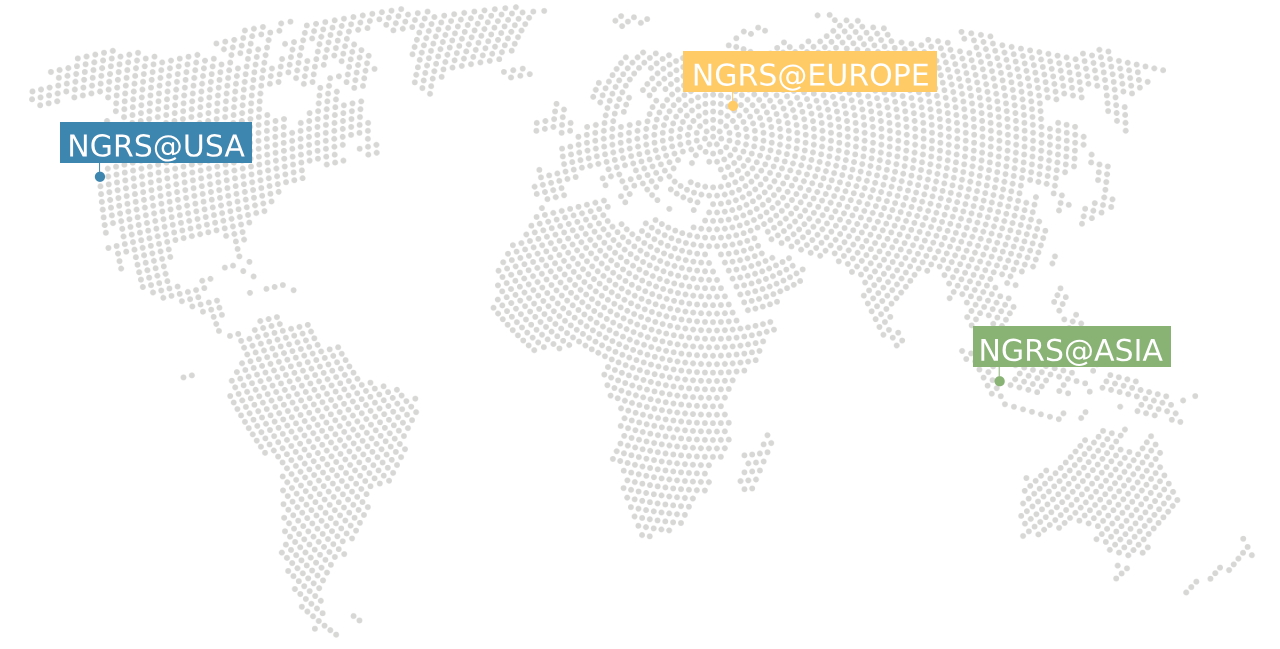
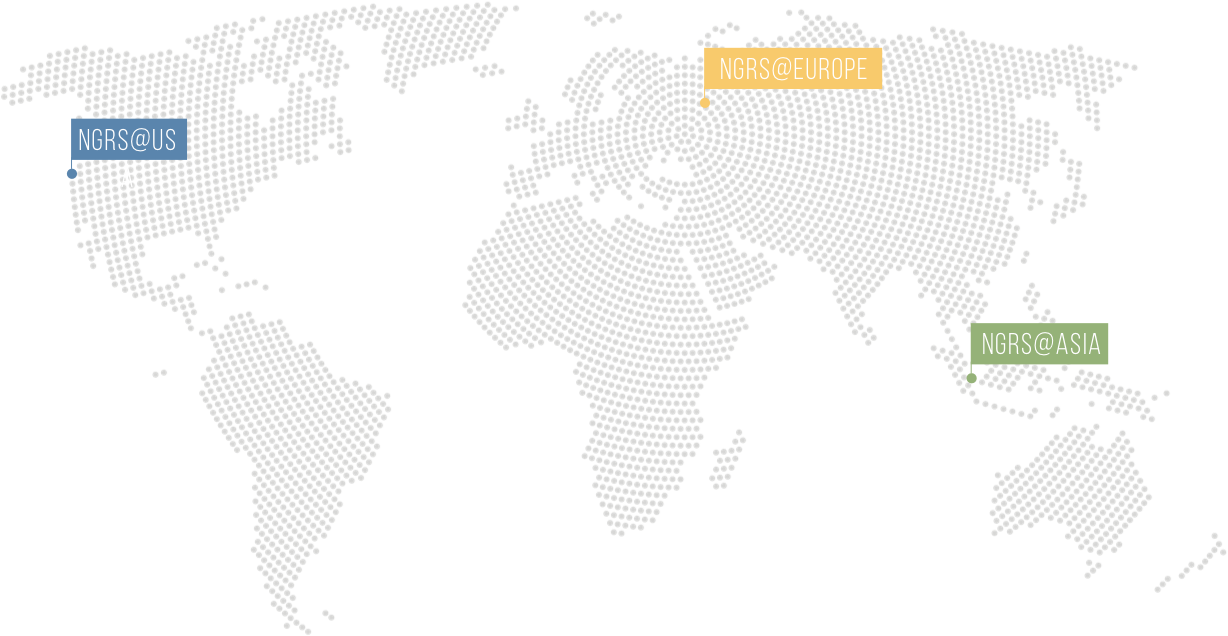
Исправлена картинка карты, добавлена анимация фона с точками.

diff --git a/css/main.min-86f89e81.css b/css/main.min-86f89e81.css
@@ -1,0 +1,1 @@
+@charset "UTF-8";a,abbr,acronym,address,applet,article,aside,audio,b,big,blockquote,body,canvas,caption,center,cite,code,dd,del,details,dfn,div,dl,dt,em,embed,fieldset,figcaption,figure,footer,form,h1,h2,h3,h4,h5,h6,header,hgroup,html,i,iframe,img,ins,kbd,label,legend,li,mark,menu,nav,object,ol,output,p,pre,q,ruby,s,samp,section,small,span,strike,strong,sub,summary,sup,table,tbody,td,tfoot,th,thead,time,tr,tt,u,ul,var,video{margin:0;padding:0;border:0;font-size:100%;font:inherit;vertical-align:baseline}article,aside,details,figcaption,figure,footer,header,hgroup,menu,nav,section{display:block}body{line-height:1}ol,ul{list-style:none}blockquote,q{quotes:none}blockquote:after,blockquote:before,q:after,q:before{content:'';content:none}table{border-collapse:collapse;border-spacing:0}textarea{resize:none}a{text-decoration:none}.slick-slider{position:relative;display:block;-webkit-box-sizing:border-box;box-sizing:border-box;-webkit-touch-callout:none;-webkit-user-select:none;-moz-user-select:none;-ms-user-select:none;user-select:none;-ms-touch-action:pan-y;touch-action:pan-y;-webkit-tap-highlight-color:transparent}.slick-list{position:relative;overflow:hidden;display:block;margin:0;padding:0}.slick-list:focus{outline:0}.slick-list.dragging{cursor:pointer;cursor:hand}.slick-slider .slick-list,.slick-slider .slick-track{-webkit-transform:translate3d(0,0,0);transform:translate3d(0,0,0)}.slick-track{position:relative;left:0;top:0;display:block}.slick-track:after,.slick-track:before{content:"";display:table}.slick-track:after{clear:both}.slick-loading .slick-track{visibility:hidden}.slick-slide{float:left;height:100%;min-height:1px;display:none}[dir=rtl] .slick-slide{float:right}.slick-slide img{display:block}.slick-slide.slick-loading img{display:none}.slick-slide.dragging img{pointer-events:none}.slick-initialized .slick-slide{display:block}.slick-loading .slick-slide{visibility:hidden}.slick-vertical .slick-slide{display:block;height:auto;border:1px solid transparent}.slick-arrow.slick-hidden{display:none}.slick-next,.slick-prev{position:absolute;display:block;height:20px;width:20px;line-height:0;font-size:0;cursor:pointer;background:0 0;color:transparent;top:50%;-webkit-transform:translate(0,-50%);transform:translate(0,-50%);padding:0;border:none;outline:0}.slick-next:focus,.slick-next:hover,.slick-prev:focus,.slick-prev:hover{outline:0;background:0 0;color:transparent}.slick-next:focus:before,.slick-next:hover:before,.slick-prev:focus:before,.slick-prev:hover:before{opacity:1}.slick-next.slick-disabled:before,.slick-prev.slick-disabled:before{opacity:.25}.slick-next:before,.slick-prev:before{font-family:slick;font-size:20px;line-height:1;color:#fff;opacity:.75;-webkit-font-smoothing:antialiased;-moz-osx-font-smoothing:grayscale}.slick-prev{left:-25px}[dir=rtl] .slick-prev{left:auto;right:-25px}.slick-prev:before{content:"←"}[dir=rtl] .slick-prev:before{content:"→"}.slick-next{right:-25px}[dir=rtl] .slick-next{left:-25px;right:auto}.slick-next:before{content:"→"}[dir=rtl] .slick-next:before{content:"←"}.slick-dotted.slick-slider{margin-bottom:30px}.slick-dots{position:absolute;bottom:-25px;list-style:none;display:block;text-align:center;padding:0;margin:0;width:100%}.slick-dots li{position:relative;display:inline-block;height:20px;width:20px;margin:0 5px;padding:0;cursor:pointer}.slick-dots li button{border:0;background:0 0;display:block;height:20px;width:20px;outline:0;line-height:0;font-size:0;color:transparent;padding:5px;cursor:pointer}.slick-dots li button:focus,.slick-dots li button:hover{outline:0}.slick-dots li button:focus:before,.slick-dots li button:hover:before{opacity:1}.slick-dots li button:before{position:absolute;top:0;left:0;content:"•";width:20px;height:20px;font-family:slick;font-size:6px;line-height:20px;text-align:center;color:#000;opacity:.25;-webkit-font-smoothing:antialiased;-moz-osx-font-smoothing:grayscale}.slick-dots li.slick-active button:before{color:#000;opacity:.75}@font-face{font-family:Montserrat;src:url(/fonts/Montserrat-SemiBold.ttf) format("truetype");font-style:normal;font-weight:600}@font-face{font-family:PT;src:url(/fonts/PT_Sans-Web-Regular.ttf) format("truetype");font-style:normal;font-weight:400}@font-face{font-family:PT;src:url(/fonts/PT_Sans-Web-Italic.ttf) format("truetype");font-style:italic;font-weight:400}@font-face{font-family:Bebas;src:url(/fonts/BebasNeue_Regular.ttf) format("truetype");font-style:normal;font-weight:400}@font-face{font-family:Bebas;src:url(/fonts/BebasNeue_Light.ttf) format("truetype");font-style:normal;font-weight:300}@font-face{font-family:Bebas;src:url(/fonts/BebasNeue_Bold.ttf) format("truetype");font-style:normal;font-weight:700}.header{display:-webkit-box;display:-ms-flexbox;display:flex;max-width:1400px;margin-left:auto;margin-right:auto;padding-top:50px;margin-bottom:100px}@media (max-width:1600px){.header{max-width:100%;padding-left:100px;padding-right:100px;-webkit-box-pack:justify;-ms-flex-pack:justify;justify-content:space-between}}@media (max-width:1400px){.header{padding-left:50px;padding-right:50px;padding-top:25px}}@media (max-width:600px){.header{margin-bottom:60px}}@media (max-width:480px){.header{padding-left:30px;padding-right:20px}}.header__left-col,.header__right-col{display:-webkit-box;display:-ms-flexbox;display:flex}.header__left-col{width:calc(100% - 350px);-webkit-box-flex:0;-ms-flex:0 0 calc(100% - 350px);flex:0 0 calc(100% - 350px)}@media (max-width:1400px){.header__left-col{width:calc(100% - 250px);-webkit-box-flex:0;-ms-flex:0 0 calc(100% - 250px);flex:0 0 calc(100% - 250px)}}.header__right-col{width:270px;-webkit-box-flex:0;-ms-flex:0 0 270px;flex:0 0 270px;-webkit-box-pack:justify;-ms-flex-pack:justify;justify-content:space-between;-webkit-box-align:start;-ms-flex-align:start;align-items:flex-start;padding-top:28px}@media (max-width:1400px){.header__right-col{width:230px;-webkit-box-flex:0;-ms-flex:0 0 230px;flex:0 0 230px}}@media (max-width:1199px){.header__right-col{-webkit-box-pack:end;-ms-flex-pack:end;justify-content:flex-end}}@media (max-width:480px){.header__right-col{padding-top:0}}.header__logo{width:60px;-webkit-box-flex:0;-ms-flex:0 0 60px;flex:0 0 60px;height:92px;background-image:url(/images/logo-header.svg);background-position:center;background-repeat:no-repeat;background-size:auto;margin-right:60px}@media (max-width:1400px){.header__logo{margin-right:30px}}@media (max-width:480px){.header__logo{width:32px;-webkit-box-flex:0;-ms-flex:0 0 32px;flex:0 0 32px;height:50px;background-size:contain}}.header-menu{margin-top:28px;display:-webkit-box;display:-ms-flexbox;display:flex;-webkit-box-align:start;-ms-flex-align:start;align-items:flex-start}@media (max-width:1199px){.header-menu{display:none}}.header-menu__link{display:block;margin-right:25px;font-family:Montserrat;font-size:14px;line-height:1.28571;font-weight:600;color:#8c8c8c;-webkit-transition:all .3s ease-in-out;transition:all .3s ease-in-out;position:relative}@media (max-width:1400px){.header-menu__link{margin-right:15px}}.header-menu__link:after{content:'';position:absolute;top:auto;left:0;right:auto;bottom:-12px;width:20px;height:2px;background-color:transparent;-webkit-transition:all .3s ease-in-out;transition:all .3s ease-in-out}.header-menu__link:hover{color:#4a4b4c}.header-menu__link:hover:after{background-color:#f8ca6c}.header-menu__link:last{margin-right:0}.header__phone{font-family:Montserrat;font-size:14px;line-height:1.28571;font-weight:600;color:#565656}@media (max-width:1199px){.header__phone{display:none}}@media (max-width:1199px){.header__langs{display:none}}.header__lang-item{font-family:Montserrat;font-size:14px;line-height:1.28571;font-weight:600;color:#8c8c8c;-webkit-transition:all .3s ease-in-out;transition:all .3s ease-in-out;margin-right:10px}.header__lang-item:after{content:'';position:absolute;top:auto;left:50%;right:auto;bottom:-12px;width:20px;height:2px;background-color:transparent;-webkit-transform:translateX(-50%);transform:translateX(-50%);-webkit-transition:all .3s ease-in-out;transition:all .3s ease-in-out}.header__lang-item--active,.header__lang-item:hover{color:#4a4b4c;position:relative}.header__lang-item--active:after,.header__lang-item:hover:after{background-color:#f8ca6c}.header__lang-item:last{margin-right:0}.header__mobile{display:none}@media (max-width:1199px){.header__mobile{display:-webkit-box;display:-ms-flexbox;display:flex}}.header__mobile-phone{display:block;width:11px;height:22px;background-image:url(/images/phone-icon.png);background-position:center;background-repeat:no-repeat;background-size:cover;margin-right:35px}.header__burger{cursor:pointer}.header__burger--opened .header__burger-item{opacity:0}.header__burger--opened .header__burger-item:first-child{-webkit-transform:rotate(45deg) translate(6px,6px);transform:rotate(45deg) translate(6px,6px);opacity:1}.header__burger--opened .header__burger-item:last-child{-webkit-transform:rotate(-45deg) translate(5px,-5px);transform:rotate(-45deg) translate(5px,-5px);opacity:1}.header__burger-item{height:3px;width:25px;background-color:#f8ca6c;margin-bottom:5px;display:block;pointer-events:none;-webkit-transition:all .3s ease-in-out;transition:all .3s ease-in-out}.menu-mobile{display:none}.menu-mobile--active{display:block;position:fixed;top:120px;left:0;background-color:#fff;z-index:3;width:100vw;height:calc(100vh - 120px)}@media (max-width:1400px){.menu-mobile--active{padding-left:50px;padding-right:50px;padding-top:25px}}@media (max-width:600px){.menu-mobile--active{margin-bottom:60px}}@media (max-width:480px){.menu-mobile--active{padding-left:30px;padding-right:20px}}.menu-mobile nav{display:-webkit-box;display:-ms-flexbox;display:flex;-webkit-box-orient:vertical;-webkit-box-direction:normal;-ms-flex-direction:column;flex-direction:column;-webkit-box-align:start;-ms-flex-align:start;align-items:flex-start}.menu-mobile .header-menu__link{margin-bottom:40px}.menu-mobile .header-menu__link:last-child{margin-bottom:0}.menu-mobile .header__langs{display:-webkit-box;display:-ms-flexbox;display:flex;margin-left:10px;margin-top:65px;margin-bottom:40px}.menu-mobile .header__phone{display:inline-block}.footer{position:relative}.footer__logo{position:absolute;top:50%;left:50%;-webkit-transform:translate(-50%,-50%);transform:translate(-50%,-50%);z-index:2}@media (max-width:767px){.footer__logo{width:56px;height:78px}}.video-slider{height:340px;z-index:1}@media (max-width:767px){.video-slider{height:150px}}.video-slider__item{height:340px;overflow:hidden;position:relative}@media (max-width:767px){.video-slider__item{height:150px}}.video-slider__item video{position:absolute;top:0;right:0;width:100%;height:auto}.preloader{width:100vw;height:100vh;background-color:#fff;z-index:5;position:fixed;top:0;left:0;display:-webkit-box;display:-ms-flexbox;display:flex;-webkit-box-pack:center;-ms-flex-pack:center;justify-content:center;-webkit-box-align:center;-ms-flex-align:center;align-items:center}.preloader__wrap{display:-webkit-box;display:-ms-flexbox;display:flex;-webkit-box-orient:vertical;-webkit-box-direction:normal;-ms-flex-direction:column;flex-direction:column;-webkit-box-pack:justify;-ms-flex-pack:justify;justify-content:space-between;-webkit-box-align:center;-ms-flex-align:center;align-items:center}.preloader__square{width:32px;height:32px;background-color:#7297b9;-webkit-animation-name:preloader;animation-name:preloader;-webkit-animation-duration:4s;animation-duration:4s;-webkit-animation-iteration-count:infinite;animation-iteration-count:infinite;-webkit-animation-timing-function:linear;animation-timing-function:linear;-webkit-transform-origin:center;transform-origin:center;-webkit-animation-delay:1s;animation-delay:1s;margin-bottom:15px}.preloader__text{font-family:Montserrat;font-size:14px;line-height:1;font-weight:600}@-webkit-keyframes preloader{0%{-webkit-transform:scale(1);transform:scale(1);background-color:#7297b9}12.5%{-webkit-transform:scale(0);transform:scale(0);background-color:#7fbdc5}25%{-webkit-transform:scale(1);transform:scale(1);background-color:#7fbdc5}37.5%{-webkit-transform:scale(0);transform:scale(0);background-color:#a6c983}50%{-webkit-transform:scale(1);transform:scale(1);background-color:#a6c983}62.5%{-webkit-transform:scale(0);transform:scale(0);background-color:#f9d281}75%{-webkit-transform:scale(1);transform:scale(1);background-color:#f9d281}87.5%{-webkit-transform:scale(0);transform:scale(0);background-color:#7297b9}100%{-webkit-transform:scale(1);transform:scale(1);background-color:#7297b9}}@keyframes preloader{0%{-webkit-transform:scale(1);transform:scale(1);background-color:#7297b9}12.5%{-webkit-transform:scale(0);transform:scale(0);background-color:#7fbdc5}25%{-webkit-transform:scale(1);transform:scale(1);background-color:#7fbdc5}37.5%{-webkit-transform:scale(0);transform:scale(0);background-color:#a6c983}50%{-webkit-transform:scale(1);transform:scale(1);background-color:#a6c983}62.5%{-webkit-transform:scale(0);transform:scale(0);background-color:#f9d281}75%{-webkit-transform:scale(1);transform:scale(1);background-color:#f9d281}87.5%{-webkit-transform:scale(0);transform:scale(0);background-color:#7297b9}100%{-webkit-transform:scale(1);transform:scale(1);background-color:#7297b9}}html:not(.android-device) *{text-rendering:geometricPrecision}*{-webkit-box-sizing:border-box;box-sizing:border-box}footer,header,main{overflow-x:hidden}@media (max-width:991px){br{display:none}}.content:before{content:'';position:absolute;top:0;left:0;right:auto;bottom:auto;background-image:url(/images/bg_wave.png);background-position:center;background-repeat:no-repeat;background-size:contain;width:100%;height:1400px;pointer-events:none}@media (max-width:600px){.content:before{height:1100px}}@media (max-width:480px){.content:before{height:1000px}}.h1{font-family:Bebas;font-size:55px;line-height:1.45455;font-weight:700;letter-spacing:2.75px;text-transform:uppercase;color:#4a4b4c}@media (max-width:991px){.h1{font-size:45px}}@media (max-width:767px){.h1{font-size:40px}}@media (max-width:480px){.h1{font-size:35px}}.h2{font-family:Bebas;font-size:50px;line-height:1;font-weight:700;letter-spacing:2.5px;text-transform:uppercase;color:#4a4b4c;margin-bottom:40px}@media (max-width:991px){.h2{font-size:40px}}@media (max-width:767px){.h2{font-size:35px}}@media (max-width:480px){.h2{font-size:32px}}.paragraph{font-family:PT;font-size:22px;line-height:1.72727;font-weight:400;color:#4a4b4c}@media (max-width:480px){.paragraph{font-size:18px}}.paragraph--italic{font-style:italic}.section{max-width:1400px;margin-left:auto;margin-right:auto}@media (max-width:1600px){.section{max-width:100%;padding-left:100px;padding-right:100px}}@media (max-width:1400px){.section{padding-left:50px;padding-right:50px}}@media (max-width:480px){.section{padding-left:30px;padding-right:20px}}.section--main{margin-bottom:410px}@media (max-width:600px){.section--main{margin-bottom:280px}}@media (max-width:480px){.section--main{margin-bottom:250px}}.section--main:after{content:'';position:absolute;top:0;left:0;right:auto;bottom:auto;background-image:url(/images/lines-top.png);background-position:center;background-repeat:no-repeat;background-size:auto;width:100%;height:745px;pointer-events:none}@media (max-width:600px){.section--main:after{background-size:124%;height:825px}}@media (max-width:480px){.section--main:after{background-size:130%;height:835px}}.section--main .paragraph{margin-top:35px}.section--about{display:-webkit-box;display:-ms-flexbox;display:flex;margin-bottom:180px}@media (max-width:991px){.section--about{-webkit-box-orient:vertical;-webkit-box-direction:normal;-ms-flex-direction:column;flex-direction:column;margin-bottom:75px}}.section--about .section__text{max-width:315px;margin-right:215px}@media (max-width:1400px){.section--about .section__text{margin-right:65px}}@media (max-width:991px){.section--about .section__text{margin-right:0;margin-bottom:70px}}.section--services{display:-webkit-box;display:-ms-flexbox;display:flex}@media (max-width:1199px){.section--services{-webkit-box-orient:vertical;-webkit-box-direction:normal;-ms-flex-direction:column;flex-direction:column}}.section--services .section__text{max-width:175px;margin-right:185px}@media (max-width:1199px){.section--services .section__text{margin-right:0;margin-bottom:20px}}.section--who{display:-webkit-box;display:-ms-flexbox;display:flex;-webkit-box-pack:justify;-ms-flex-pack:justify;justify-content:space-between;padding-bottom:45px}@media (max-width:600px){.section--who{-webkit-box-orient:vertical;-webkit-box-direction:normal;-ms-flex-direction:column;flex-direction:column}}.section--who .section__text{max-width:175px;-webkit-box-flex:0;-ms-flex:0 0 175px;flex:0 0 175px}@media (max-width:600px){.section--who .section__text{-webkit-box-flex:0;-ms-flex:none;flex:none}}.section--who .section__description{margin-top:45px;position:relative;z-index:2}@media (max-width:991px){.section--who .section__description{margin-top:0}.section--who .section__description img{width:100%}}.section--where{display:-webkit-box;display:-ms-flexbox;display:flex;margin-bottom:185px}@media (max-width:991px){.section--where{-webkit-box-orient:vertical;-webkit-box-direction:normal;-ms-flex-direction:column;flex-direction:column}}@media (max-width:767px){.section--where{margin-bottom:80px}}.section--where .h2{margin-bottom:30px}.section--where .section__text{max-width:295px;-webkit-box-flex:0;-ms-flex:0 0 295px;flex:0 0 295px;padding-top:125px}@media (max-width:1199px){.section--where .section__text{padding-top:0}}@media (max-width:991px){.section--where .section__text{-webkit-box-flex:0;-ms-flex:none;flex:none;margin-bottom:40px}}.section--where .section__description{display:-webkit-box;display:-ms-flexbox;display:flex;-webkit-box-align:start;-ms-flex-align:start;align-items:flex-start}.section--where .section__description img{width:100%;height:auto}@media (max-width:480px){.section--where .section__description img{width:120%;left:-34px;position:relative}}.section--projects{display:-webkit-box;display:-ms-flexbox;display:flex;margin-bottom:185px;padding-top:180px;padding-bottom:170px}@media (max-width:1199px){.section--projects{-webkit-box-orient:vertical;-webkit-box-direction:normal;-ms-flex-direction:column;flex-direction:column}}@media (max-width:767px){.section--projects{margin-bottom:80px;padding-top:85px;padding-bottom:80px}}.section--projects .section__text{max-width:320px;-webkit-box-flex:0;-ms-flex:0 0 320px;flex:0 0 320px;margin-right:75px}@media (max-width:1199px){.section--projects .section__text{-webkit-box-flex:0;-ms-flex:none;flex:none;margin-right:0;margin-bottom:60px}}@media (max-width:480px){.section--projects .section__text .paragraph{font-size:14px}}.section--projects .section__description{-webkit-box-flex:0;-ms-flex:0 0 calc(100% - 395px);flex:0 0 calc(100% - 395px);width:calc(100% - 395px)}@media (max-width:1199px){.section--projects .section__description{-webkit-box-flex:0;-ms-flex:none;flex:none;width:100%}}.section--projects .section__description .paragraph{font-family:PT;font-size:18px;line-height:1.55556;font-weight:700;color:#303030;text-align:center;top:-25px;position:relative}@media (max-width:767px){.section--projects .section__description .paragraph{top:0;margin-top:80px}}@media (max-width:480px){.section--projects .section__description .paragraph{font-size:14px;max-width:185px;margin-left:auto;margin-right:auto}}.section--contacts{display:-webkit-box;display:-ms-flexbox;display:flex;margin-bottom:75px}@media (max-width:767px){.section--contacts{margin-bottom:20px}}.section--contacts .section__text{max-width:295px;margin-right:185px}@media (max-width:991px){.section--contacts .section__text{margin-right:50px}}@media (max-width:767px){.section--contacts .section__text{max-width:100%;width:100%;margin-right:0}.section--contacts .section__text .h2{max-width:295px}}.section--contacts .section__description{display:-webkit-box;display:-ms-flexbox;display:flex;-webkit-box-orient:vertical;-webkit-box-direction:normal;-ms-flex-direction:column;flex-direction:column;-webkit-box-align:start;-ms-flex-align:start;align-items:flex-start}@media (max-width:767px){.section--contacts .section__description{display:none}}.section--contacts .contact-phone{font-family:PT;font-size:70px;line-height:1;font-weight:400;color:#4a4b4c;display:block;margin-bottom:55px;margin-top:60px}@media (max-width:1199px){.section--contacts .contact-phone{font-size:50px}}@media (max-width:991px){.section--contacts .contact-phone{font-size:40px}}@media (max-width:767px){.section--contacts .contact-phone{margin-bottom:25px}}@media (max-width:480px){.section--contacts .contact-phone{font-size:27px}}.section--contacts .contact-email{font-family:PT;font-size:50px;line-height:1;font-weight:400;color:#4a7296;display:block}@media (max-width:991px){.section--contacts .contact-email{font-size:40px}}@media (max-width:480px){.section--contacts .contact-email{font-size:20px}}.section--contacts .contact-mobile{display:none}@media (max-width:767px){.section--contacts .contact-mobile{display:block}}.section--reviews{padding-bottom:290px}@media (max-width:767px){.section--reviews{padding-bottom:130px}}.about{display:-webkit-box;display:-ms-flexbox;display:flex}@media (max-width:767px){.about{-webkit-box-orient:vertical;-webkit-box-direction:normal;-ms-flex-direction:column;flex-direction:column}}.about__item{margin-right:45px}@media (max-width:991px){.about__item{margin-right:65px}}@media (max-width:767px){.about__item{margin-right:0;margin-bottom:50px}}.about__item:last-child{margin-right:0;margin-bottom:0}.about__count{font-family:Bebas;font-size:90px;line-height:.55556;font-weight:300;letter-spacing:4.5px;color:#4a4b4c;margin-bottom:30px}@media (max-width:480px){.about__count{font-size:70px}}.about__text{font-family:PT;font-size:19px;line-height:1.68421;font-weight:400;color:#4a4b4c}@media (max-width:480px){.about__text{font-size:14px}}.video-top{height:185px;position:relative;overflow:hidden}.video-top__img{position:absolute;z-index:2;left:50%;top:50%;-webkit-transform:translate(-50%,-50%);transform:translate(-50%,-50%)}@media (max-width:600px){.video-top__img{display:none}}.video-top .light-paints{width:100%;height:auto;position:absolute;top:0;right:0;-webkit-transform:translateY(-50%);transform:translateY(-50%);z-index:1}.clouds-bg{background-image:url(/images/plumage.png);background-position:center;background-repeat:no-repeat;background-size:cover}.dots-bg{position:relative;padding-top:185px;margin-bottom:260px;background-image:url(/images/dots-back.png);background-position:top left;background-repeat:no-repeat;background-size:120% auto;-webkit-animation-name:bg-anim;animation-name:bg-anim;-webkit-animation-duration:20s;animation-duration:20s;-webkit-animation-iteration-count:infinite;animation-iteration-count:infinite;-webkit-animation-timing-function:linear;animation-timing-function:linear;-webkit-animation-direction:alternate;animation-direction:alternate}@media (max-width:767px){.dots-bg{margin-bottom:120px;padding-top:0}}.dots-bg:after{content:'';position:absolute;top:93%;left:0;right:auto;bottom:auto;width:100%;height:113px;background:-webkit-gradient(linear,left top,left bottom,from(rgba(0,0,0,0)),to(#fff));background:linear-gradient(180deg,rgba(0,0,0,0) 0,#fff 100%);pointer-events:none}.lines-bg{background-image:url(/images/lines-bottom.png);background-position:left bottom;background-repeat:no-repeat;background-size:auto}@media (max-width:767px){.lines-bg{background-size:260%;background-position:right bottom;margin-bottom:100px}}.services{display:-webkit-box;display:-ms-flexbox;display:flex;margin-bottom:255px}@media (max-width:767px){.services{-webkit-box-orient:vertical;-webkit-box-direction:normal;-ms-flex-direction:column;flex-direction:column;margin-bottom:100px}}.services__item{display:-webkit-box;display:-ms-flexbox;display:flex;-webkit-box-orient:vertical;-webkit-box-direction:normal;-ms-flex-direction:column;flex-direction:column;-webkit-box-pack:justify;-ms-flex-pack:justify;justify-content:space-between;width:calc(33% - 70px);-webkit-box-flex:0;-ms-flex:0 0 calc(33% - 70px);flex:0 0 calc(33% - 70px);margin-right:70px}@media (max-width:1600px){.services__item{-webkit-box-pack:start;-ms-flex-pack:start;justify-content:flex-start}}@media (max-width:1199px){.services__item{width:calc(33% - 40px);-webkit-box-flex:0;-ms-flex:0 0 calc(33% - 40px);flex:0 0 calc(33% - 40px);margin-right:40px}}@media (max-width:767px){.services__item{width:100%;-webkit-box-flex:0;-ms-flex:0 0 100%;flex:0 0 100%;margin-right:0;margin-bottom:75px}}.services__item:nth-child(3){margin-right:0;margin-bottom:0}.services__item .paragraph{font-family:PT;font-size:19px;line-height:1.68421;font-weight:400}.services__item .paragraph:nth-child(2n){margin-top:30px}.services__title{min-height:60px;-webkit-box-flex:0;-ms-flex:0 0 60px;flex:0 0 60px;font-family:Bebas;font-size:30px;line-height:1;font-weight:700;letter-spacing:1.5px;text-transform:uppercase;color:#4a4b4c;margin-bottom:46px}@media (max-width:767px){.services__title{min-height:unset;-webkit-box-flex:0;-ms-flex:none;flex:none}}@media (max-width:480px){.services__title{font-size:20px;margin-bottom:30px}}.services__text{position:relative;padding-top:30px}@media (max-width:480px){.services__text .paragraph{font-size:14px}}.services__text:before{content:'';position:absolute;top:0;left:0;right:auto;bottom:auto;width:48px;height:3px;background-color:#5a85ad}.socials{display:-webkit-box;display:-ms-flexbox;display:flex;margin-top:35px}.socials__item{width:26px;height:26px;background-size:contain;background-repeat:no-repeat;background-position:center;margin-right:15px}.socials__item--linkedin{background-image:url(/images/linkedin.svg)}.socials__item--instagram{background-image:url(/images/instagram.svg)}.socials__item--facebook{background-image:url(/images/facebook.svg);margin-right:0}.copyright{font-family:PT;font-size:16px;line-height:1.75;font-weight:400;color:#4a4b4c;margin-top:80px}@media (max-width:767px){.copyright{text-align:center}}@media (max-width:480px){.copyright{font-size:12px}}.projects-slider{height:305px;width:100%}@media (max-width:767px){.projects-slider{height:400px}}.projects-slider__wrap{display:-webkit-box;display:-ms-flexbox;display:flex;-ms-flex-wrap:wrap;flex-wrap:wrap}.projects-slider__project{width:25%;-webkit-box-flex:0;-ms-flex:0 0 25%;flex:0 0 25%;padding-left:15px;padding-right:15px;height:100px}@media (max-width:767px){.projects-slider__project{width:50%;-webkit-box-flex:0;-ms-flex:0 0 50%;flex:0 0 50%}}@media (max-width:480px){.projects-slider__project{padding:0}}.projects-slider .slick-dots{bottom:-85px}@media (max-width:767px){.projects-slider .slick-dots{bottom:-45px}}.projects-slider .slick-dots li{width:11px;height:11px;border-radius:50%;background-color:#cecece;overflow:hidden;-webkit-transition:all .3s ease-in-out;transition:all .3s ease-in-out;margin:0 10px}.projects-slider .slick-dots li.slick-active{background-color:#5a85ad}.projects-slider .slick-dots li button{width:100%;height:100%;text-indent:-9999px;white-space:nowrap}.slick-slide{outline:0}.reviews-slider{margin-top:40px}.reviews-slider__wrap{display:-webkit-box;display:-ms-flexbox;display:flex}@media (max-width:767px){.reviews-slider__wrap{-webkit-box-orient:vertical;-webkit-box-direction:normal;-ms-flex-direction:column;flex-direction:column}}.reviews-slider__author{display:-webkit-box;display:-ms-flexbox;display:flex;margin-right:160px}@media (max-width:1400px){.reviews-slider__author{margin-right:60px}}@media (max-width:767px){.reviews-slider__author{margin-bottom:40px;margin-right:0}}.reviews-slider__img{width:93px;-webkit-box-flex:0;-ms-flex:0 0 93px;flex:0 0 93px;height:93px;margin-right:27px;border-radius:50%;overflow:hidden;background-position:center;background-repeat:no-repeat}@media (max-width:480px){.reviews-slider__img{width:65px;-webkit-box-flex:0;-ms-flex:0 0 65px;flex:0 0 65px;height:65px;margin-right:15px;background-size:contain}}.reviews-slider__about{width:200px;-webkit-box-flex:0;-ms-flex:0 0 200px;flex:0 0 200px}.reviews-slider__fio{font-family:PT;font-size:20px;line-height:1.4;font-weight:700;color:#4a4b4c;margin-bottom:15px}@media (max-width:480px){.reviews-slider__fio{font-size:16px}}.reviews-slider__position{font-family:PT;font-size:18px;line-height:1.33333;font-weight:400;color:#8c8c8c;margin-bottom:15px}@media (max-width:480px){.reviews-slider__position{font-size:14px}}.reviews-slider__info{font-family:PT;font-size:14px;line-height:1.42857;font-weight:400;color:#8c8c8c}@media (max-width:480px){.reviews-slider__info{font-size:12px}}.reviews-slider__text-wrap{width:600px;-webkit-box-flex:0;-ms-flex:0 0 600px;flex:0 0 600px}@media (max-width:1400px){.reviews-slider__text-wrap{width:calc(100% - 380px);-webkit-box-flex:0;-ms-flex:0 0 calc(100% - 380px);flex:0 0 calc(100% - 380px)}}@media (max-width:767px){.reviews-slider__text-wrap{-webkit-box-flex:0;-ms-flex:none;flex:none;width:100%}}.reviews-slider__text{font-family:PT;font-size:28px;line-height:1.64286;font-weight:400;font-style:italic;color:#4a4b4c;margin-bottom:50px}@media (max-width:991px){.reviews-slider__text{font-size:22px}}@media (max-width:480px){.reviews-slider__text{font-size:14px}}.reviews-slider__next{font-family:PT;font-size:16px;line-height:1.25;font-weight:700;color:#4a4b4c;padding-right:20px;position:relative;outline:0;cursor:pointer}@media (max-width:480px){.reviews-slider__next{font-size:12px}}.reviews-slider__next:active,.reviews-slider__next:focus{outline:0}.reviews-slider__next:after{content:'';position:absolute;top:6px;left:auto;right:0;bottom:auto;width:7px;height:12px;background-image:url(/images/slider-arrow.png);background-position:center;background-repeat:no-repeat;background-size:contain}@-webkit-keyframes bg-anim{0%{background-size:120% auto;background-position:top left}100%{background-size:120% auto;background-position:top right}}@keyframes bg-anim{0%{background-size:120% auto;background-position:top left}100%{background-size:120% auto;background-position:top right}}

diff --git a/css/partials/base-style.scss b/css/partials/base-style.scss
@@ -509,7 +509,12 @@ br {
 	position: relative;
 	padding-top: 185px;
 	margin-bottom: 260px;
-	@include backgroundImage('/images/dots-back.png', top center, no-repeat, cover);
+	@include backgroundImage('/images/dots-back.png', top left, no-repeat, 120% auto);
+	animation-name: bg-anim;
+	animation-duration: 20s;
+	animation-iteration-count: infinite;
+	animation-timing-function: linear;
+	animation-direction: alternate;
 
 	@media (max-width: $big-mobile_width) {
 		margin-bottom: 120px;
@@ -858,5 +863,17 @@ br {
 			height: 12px;
 			@include backgroundImage('/images/slider-arrow.png', center, no-repeat, contain);
 		}
+	}
+}
+
+@keyframes bg-anim {
+	0% {
+		background-size: 120% auto;
+		background-position: top left;
+	}
+
+	100% {
+		background-size: 120% auto;
+		background-position: top right;
 	}
 }

diff --git a/template/header-includes.php b/template/header-includes.php
@@ -1,1 +1,1 @@
-<link rel="stylesheet" href="/css/main.min-0e1fa1ec.css">
+<link rel="stylesheet" href="/css/main.min-86f89e81.css">
